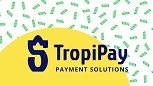
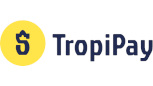
Ready for Release

diff --git a/static/description/index.html b/static/description/index.html
@@ -22,7 +22,7 @@
 
     <!-- APP HERO -->
     <h1 style="color: #FFFFFF; font-weight: bolder; font-size: 50px; text-align: center; margin-top: 50px;">Tropipay Payment Gateway</h1>
-    <p style="color:#FFFFFF; padding: 8px 15px; text-align: center; font-size: 24px;">Modulo que permite el pagoo usando la pasarela tropipay</p>
+    <p style="color:#FFFFFF; padding: 8px 15px; text-align: center; font-size: 24px;">Modulo que permite el pago usando la pasarela tropipay</p>
     <!-- END OF APP HERO -->
     <img src="assets/screenshots/hero.gif"
         style="width: 75%; height: auto; position: absolute; margin-left: auto; margin-right: auto; top: 45%; left: 12%; right: auto;" />
@@ -97,7 +97,7 @@
     </h2>
 </div>
 <div class="row" style="font-family: 'Montserrat', sans-serif; font-weight: 400; font-size: 14px; line-height: 200%;">
-    <div class="col-sm-12 py-4">Modulo que permite a los usuarios pagar usando la pasarela tripipay directamente en el sito web.</div>
+    <div class="col-sm-12 py-4">Modulo que permite a los usuarios pagar usando la pasarela TropiPay directamente en el sito web.</div>
 </div>
 <!-- END OF OVERVIEW SECTION -->
 

diff --git a/models/payment_transaction.py b/models/payment_transaction.py
@@ -1,13 +1,15 @@
 # -*- coding: utf-8 -*-
 #############################################################################
 #
-#   Adrian Gonzalalez Padron.
-#   agonzalezpa0191@gmail.com
+#   TropiPay.
+#   soporte@tropipay.com
 #
 #
 #############################################################################
 
+import hashlib
 import logging
+import pprint
 
 from werkzeug import urls
 
@@ -65,14 +67,15 @@ class PaymentTransaction(models.Model):
         amount = self.amount
         ahora=datetime.now()
         fecha = ahora.strftime("%Y-%m-%d")
-       
+        _logger.info("Mostrando country:\n%s",
+                     self.partner_id.country_id.code)
         _logger.info(f' La fecha que viene{fecha}')
         payload = {
             "reference": self.reference,
-            "concept": "Compra en la web DelChef",
+            "concept": "Compra en la web",
             "favorite": False,
             "description": "Compra de productos en la tienda en linea",
-            "amount": amount * 100,  # float(f"{self.amount}00"), #str(self.amount)+"00",
+            "amount": round(amount * 100, 2),  # float(f"{self.amount}00"), #str(self.amount)+"00",
             "currency": self.currency_id.name,
             "singleUse": True,
             "reasonId": 34,
@@ -91,7 +94,7 @@ class PaymentTransaction(models.Model):
                 "address": self.partner_address,
                 "phone": self.partner_phone,
                 "email": self.partner_email,
-                "countryId": 1,
+                "countryIso": self.partner_id.country_id.code,
                 "termsAndConditions": "true"
             }
         }
@@ -102,7 +105,8 @@ class PaymentTransaction(models.Model):
         _logger.info(response)
         _logger.info(response.json())
         rendering_values = {
-            'api_url': response.json()["shortUrl"]
+            'api_url': response.json()["shortUrl"],
+            'payment_url': response.json()["paymentUrl"],
         }
         return rendering_values
 
@@ -111,6 +115,9 @@ class PaymentTransaction(models.Model):
         """Getting  payment status from tropipay"""
         #notification_data_str = notification_data.decode('utf-8')
         # Deserialize the JSON string
+        tx = super()._get_tx_from_notification_data(provider_code, notification_data)
+        if provider_code != 'tpp' or len(tx) == 1:
+            return tx
         notification_data_dict = json.loads(notification_data)
         _logger.info("asdfasf: %s", notification_data_dict)
 
@@ -118,10 +125,25 @@ class PaymentTransaction(models.Model):
         payment_status = notification_data_dict['data']['state']
         _logger.info("payment_status: %s", payment_status)
         # payment_status = notification_data['state'] #5 cuando el pago se realizo correctamente
-        tx = super()._get_tx_from_notification_data(provider_code, notification_data)
-        if provider_code != 'tpp' or len(tx) == 1:
-            return tx
+        _logger.info("mi clientid: %s", self.env['payment.provider'].search([('code', '=', 'tpp')]).client_id)
+        clientid = self.env['payment.provider'].search([('code', '=', 'tpp')]).client_id
+        clientsecret = self.env['payment.provider'].search([('code', '=', 'tpp')]).client_secret
+        bankOrderCode = notification_data_dict['data']['bankOrderCode']
+        originalCurrencyAmount = notification_data_dict['data']['originalCurrencyAmount']
+        # Concatenar los valores
+        data = "{}{}{}{}".format(bankOrderCode,clientid,clientsecret,originalCurrencyAmount)
+
+        # Calcular la firma utilizando SHA256
+        signature = hashlib.sha256(data.encode()).hexdigest()
+        _logger.info("misignature: {}".format(signature))
+        _logger.info("Firma remota: {}, Firma local: {}".format(notification_data_dict['data']['signaturev2'],signature))
         reference = notification_data_dict['data']['reference']
+        if signature != notification_data_dict['data']['signaturev2']:
+            raise ValidationError(
+                "tpp: " + _(
+                    "Invalid Signature %s.",
+                    reference)
+            )
         _logger.info("reference: %s", reference)
         tx = self.search(
             [

diff --git a/controllers/main.py b/controllers/main.py
@@ -1,8 +1,8 @@
 # -*- coding: utf-8 -*-
 #############################################################################
 #
-#   Adrian Gonzalalez Padron.
-#   agonzalezpa0191@gmail.com
+#   TropiPay.
+#   soporte@tropipay.com
 #   
 #
 #############################################################################
@@ -25,12 +25,12 @@ class PaymentTppController(http.Controller):
     @http.route(_return_url, type='http', auth='public',
                 methods=['GET'])
     def tpp__checkout(self, **data):
-        _logger.info("Recibiendo de Tropipay los datos de retorno:\n%s",
-                     pprint.pformat(data))
-        tx_sudo = request.env[
-            'payment.transaction'].sudo()._get_tx_from_notification_data(
-            'tpp', data)
-        tx_sudo._handle_notification_data('tpp', data)
+        #_logger.info("Recibiendo de Tropipay los datos de retorno:\n%s",
+        #             pprint.pformat(data))
+        # tx_sudo = request.env[
+        #    'payment.transaction'].sudo()._get_tx_from_notification_data(
+        #    'tpp', data)
+        #tx_sudo._handle_notification_data('tpp', data)
         return request.redirect('/payment/status')
     
     
@@ -41,16 +41,19 @@ class PaymentTppController(http.Controller):
         _logger.info("Cuerpo de la solicitud HTTP: %s", request.httprequest.data)
         data_dict = json.loads(request.httprequest.data)  # convierte la cadena JSON a un diccionario
         status = data_dict['status'] # 'OK'
-        data_dict = data_dict['data'] # {'id': 383663, 'reference': 'S00047'}
-        data_id = data_dict['id'] # 383663
-        data_reference = data_dict['reference'] # 'S00047'
-        _logger.info("status, id, reference: %s %s %s", 
-             status,
-             data_id,
-             data_reference)
-        tx_sudo = request.env['payment.transaction'].sudo()._get_tx_from_notification_data('tpp', request.httprequest.data)
-        tx_sudo._handle_notification_data('tpp', request.httprequest.data)
-        #return request.redirect('/payment/status')    
+        #if status === OK
+        if status == 'OK':
+            data_dict = data_dict['data'] # {'id': 383663, 'reference': 'S00047'}
+            data_id = data_dict['id'] # 383663
+            data_reference = data_dict['reference'] # 'S00047'
+            _logger.info("status, id, reference: %s %s %s", 
+                status,
+                data_id,
+                data_reference)
+            tx_sudo = request.env['payment.transaction'].sudo()._get_tx_from_notification_data('tpp', request.httprequest.data)
+            tx_sudo._handle_notification_data('tpp', request.httprequest.data)
+        #return request.redirect('/payment/status')   
+        return {'status': 'OK'}, 200 
 
     @http.route('/payment/tpp/failed', type='http', auth='user',
                 website=True, )

diff --git a/__manifest__.py b/__manifest__.py
@@ -1,8 +1,8 @@
 # -*- coding: utf-8 -*-
 #############################################################################
 #
-#   Adrian Gonzalalez Padron.
-#   agonzalezpa0191@gmail.com
+#   TropiPay.
+#   soporte@tropipay.com
 #   
 #
 #############################################################################
@@ -13,10 +13,10 @@
     'version': '1.2.0.0.0',
     'description': """Tropipay Payment Gateway V1.2""",
     'Summary': """Tropipay Payment Gateway V1.2""",
-    'author': "Adrian Gonzalez",
-    'company': 'Dargoz Group',
-    'maintainer': 'Adrian Gonzalez',
-    'website': "https://www.dargoz.com",
+    'author': "TropiPay",
+    'company': 'TropiPay',
+    'maintainer': 'Tropipay',
+    'website': "https://www.tropipay.com",
     'depends': ['payment', 'account', 'website', 'website_sale'],
     'data': [
         'views/payment_template.xml',
@@ -26,7 +26,7 @@
     ],
     'post_init_hook': 'post_init_hook',
     'uninstall_hook': 'uninstall_hook',
-    'images': ['static/description/banner.jpg'],
+    'images': ['static/description/tropipaylogo.png'],
     'license': 'LGPL-3',
     'installable': True,
     'application': True,

diff --git a/models/payment_provider.py b/models/payment_provider.py
@@ -1,8 +1,8 @@
 # -*- coding: utf-8 -*-
 #############################################################################
 #
-#   Adrian Gonzalalez Padron.
-#   agonzalezpa0191@gmail.com
+#   TropiPay.
+#   soporte@tropipay.com
 #
 #
 #############################################################################
@@ -18,8 +18,8 @@ class PaymentProvider(models.Model):
         selection_add=[('tpp', "(tpp) Tropipay")],
         ondelete={'tpp': 'set default'}
     )
-    client_id = fields.Char(string='ID_Cliente')
-    client_secret = fields.Char(string='Cliente_Secret')
+    client_id = fields.Char(string='ClientId')
+    client_secret = fields.Char(string='ClientSecret')
 
     @api.model
     def _get_payment_method_information(self):

diff --git a/__init__.py b/__init__.py
@@ -1,8 +1,8 @@
 # -*- coding: utf-8 -*-
 #############################################################################
 #
-#   Adrian Gonzalalez Padron.
-#   agonzalezpa0191@gmail.com
+#   TropiPay.
+#   soporte@tropipay.com
 #   
 #
 #############################################################################
